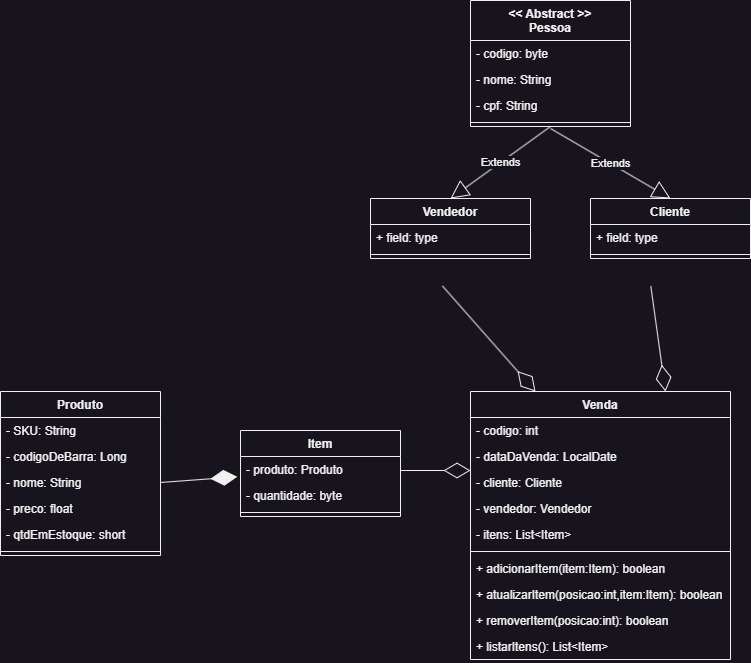
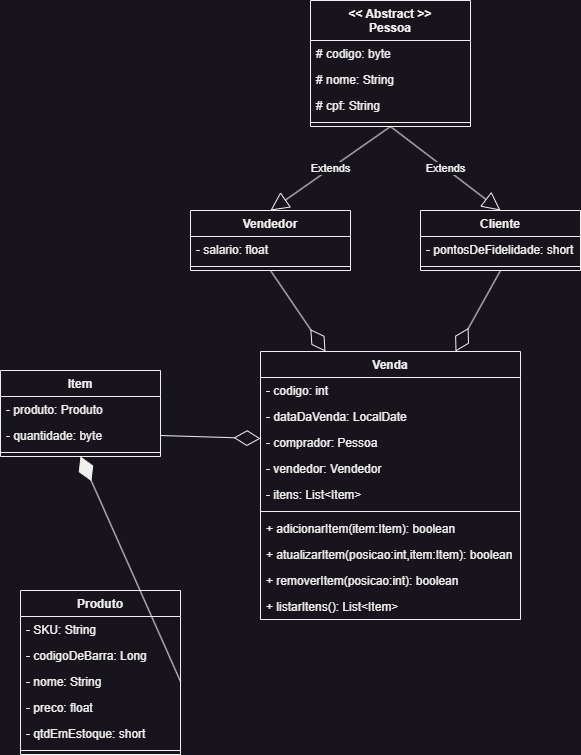
Introdução a OO

diff --git a/aula4_intro_oo/src/model/Pessoa.java b/aula4_intro_oo/src/model/Pessoa.java
@@ -1,0 +1,34 @@
+package model;
+
+public abstract class Pessoa {
+    protected byte codigo;
+    protected String nome;
+    protected String cpf;
+
+    // Métodos assessores
+    // Getters
+    public byte getCodigo() {
+        return this.codigo;
+    }
+
+    public String getNome() {
+        return this.nome;
+    }
+
+    public String getCpf() {
+        return this.cpf;
+    }
+
+    // Setters
+    public void setCodigo(byte codigo) {
+        this.codigo = codigo;
+    }
+
+    public void setNome(String nome) {
+        this.nome = nome;
+    }
+
+    public void setCpf(String cpf) {
+        this.cpf = cpf;
+    }
+}

diff --git a/aula4_intro_oo/src/model/Cliente.java b/aula4_intro_oo/src/model/Cliente.java
@@ -1,0 +1,13 @@
+package model;
+
+public class Cliente extends Pessoa {
+    private short pontosDeFidelidade;
+
+    public short getPontosDeFidelidade() {
+        return this.pontosDeFidelidade;
+    }
+
+    public void setPontosDeFidelidade(short pontosDeFidelidade) {
+        this.pontosDeFidelidade = pontosDeFidelidade;
+    }
+}

diff --git a/aula4_intro_oo/src/view/App.java b/aula4_intro_oo/src/view/App.java
@@ -1,0 +1,11 @@
+package view;
+
+import model.Cliente;
+
+public class App {
+    public static void main(String[] args) throws Exception {
+        Cliente paulo = new Cliente();
+        paulo.setCodigo((byte) 1);
+        paulo.setPontosDeFidelidade((short) 1500);
+    }
+}

diff --git a/aula4_intro_oo/README.md b/aula4_intro_oo/README.md
@@ -1,0 +1,18 @@
+## Getting Started
+
+Welcome to the VS Code Java world. Here is a guideline to help you get started to write Java code in Visual Studio Code.
+
+## Folder Structure
+
+The workspace contains two folders by default, where:
+
+- `src`: the folder to maintain sources
+- `lib`: the folder to maintain dependencies
+
+Meanwhile, the compiled output files will be generated in the `bin` folder by default.
+
+> If you want to customize the folder structure, open `.vscode/settings.json` and update the related settings there.
+
+## Dependency Management
+
+The `JAVA PROJECTS` view allows you to manage your dependencies. More details can be found [here](https://github.com/microsoft/vscode-java-dependency#manage-dependencies).
